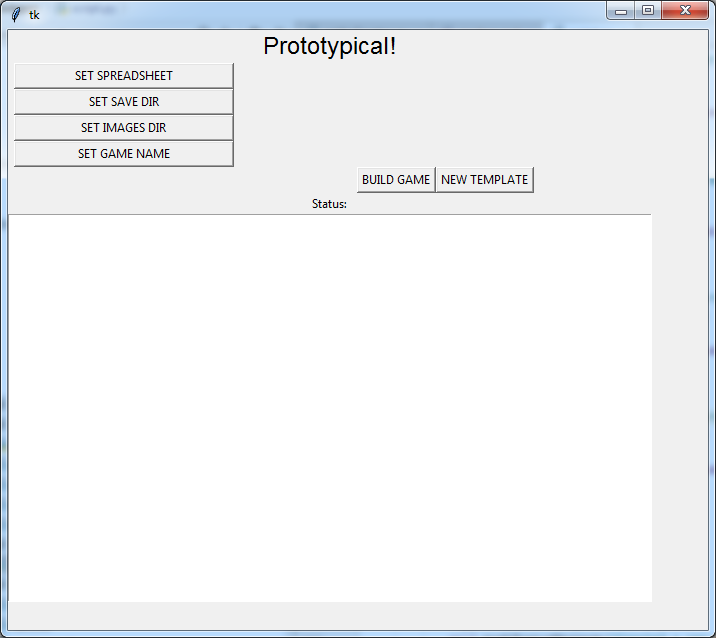
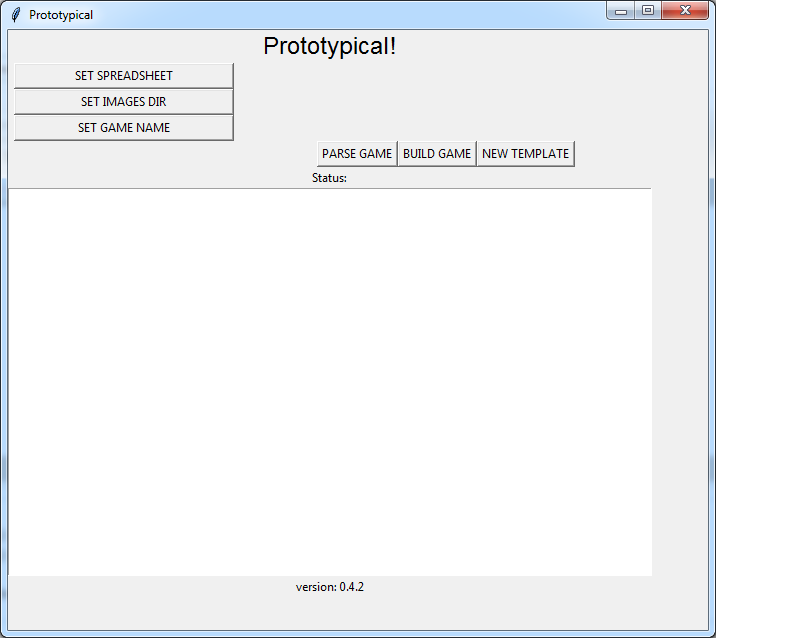
Updated the readme

diff --git a/readme.md b/readme.md
@@ -36,13 +36,17 @@ You can click "NEW TEMPLATE" to generate a new template. Place it anywhere you l
 
 Use "SET SAVE DIR" to select a directory to hold the generated save file. (This will usually be your saves folder for Tabletop Simulator, which is located in your documents directory under "My Games\Tabletop Simulator\Saves" )
 
+(If using Windows, Prototypical should auto-detect your save dir location and not show this option)
+
 Use "SET IMAGES DIR" to select a directory that will hold the generated images. This can be any directory you like.
 
 Use "SET GAME NAME" to set a name for the game. This will be visible inside Tabletop Simulator.
 
 Once your spreadsheet is filled with game components, click "BUILD GAME" to start the build process. If it completes succesfully, open up Tabletop Simulator, and your game should be available under Load/Save.
 
-If any errors happens, fix your spreadsheet, then try building again.
+If you just want to validate that there's no errors in your spreadsheet, you can click "PARSE GAME" to only scan the spreadsheet. It will *not* draw images or create a save game if you use this.
+
+If any errors happen, fix your spreadsheet, then try building or parsing again.
 
 ## Bugs, feedback?
 
